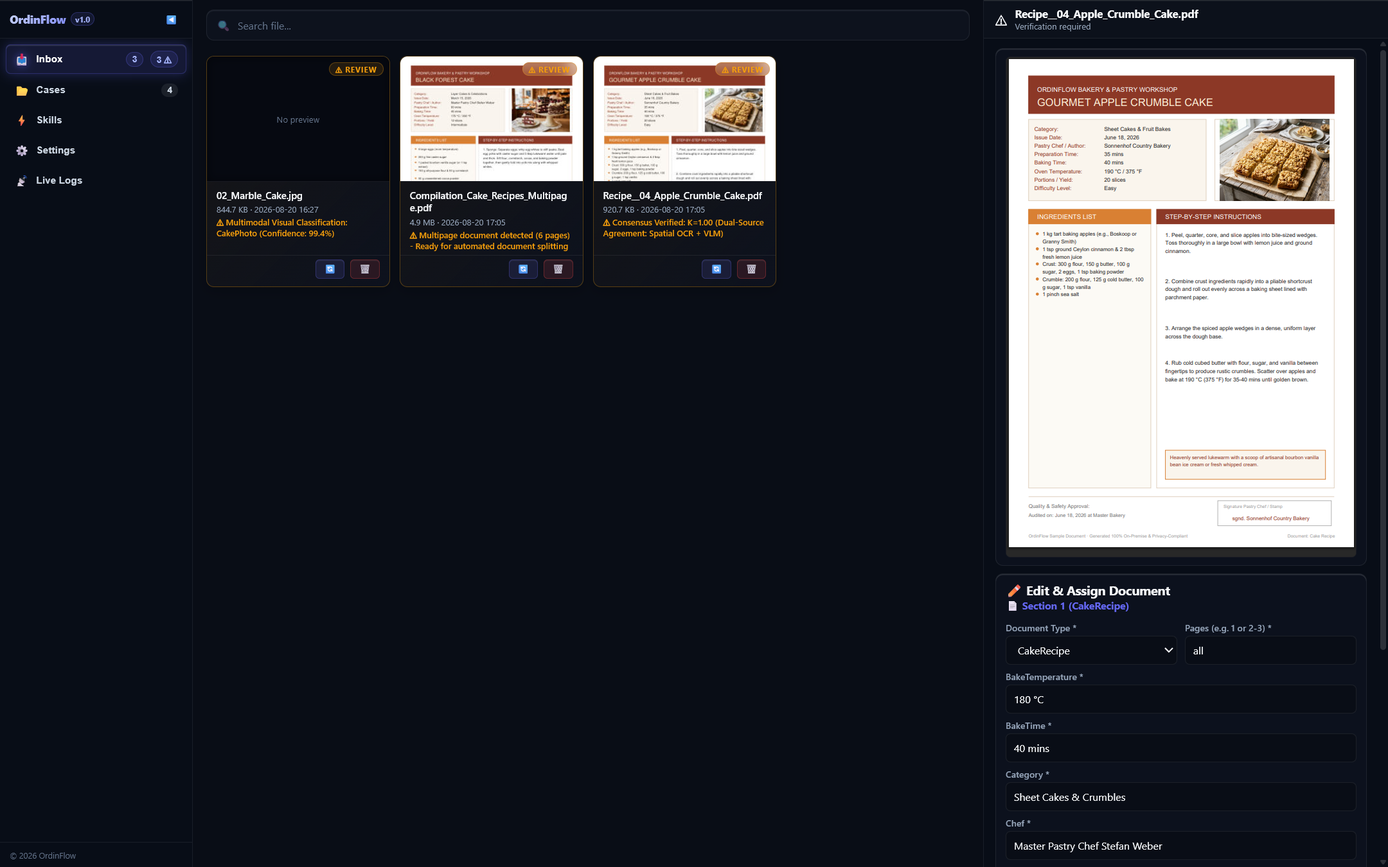
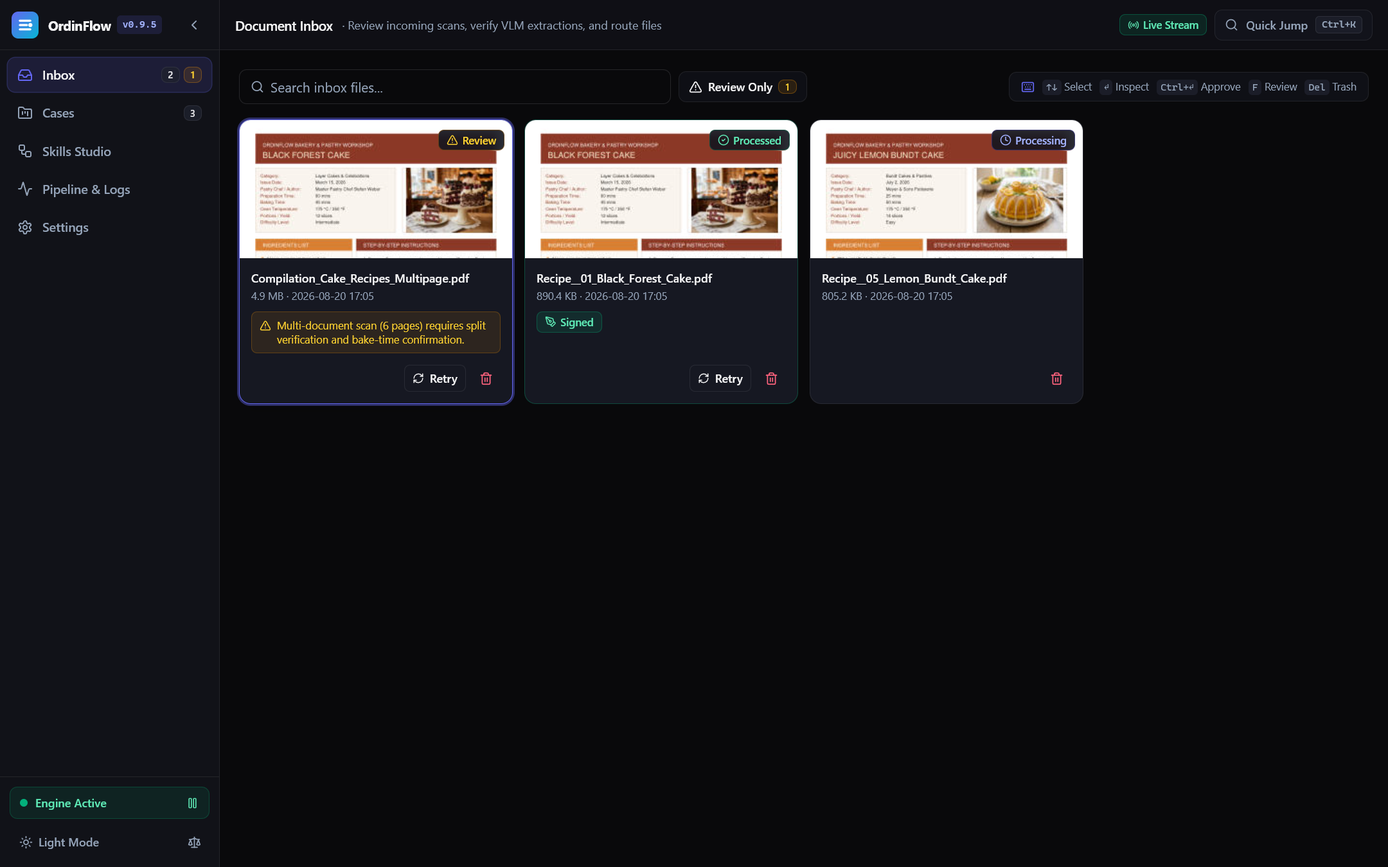
[Docs] Update README, licenses, and screenshots
Document the React/TypeScript SPA stack, bundled MIT/ISC UI dependencies, and refreshed dark-mode dashboard screenshots.

diff --git a/.agents/AGENTS.md b/.agents/AGENTS.md
@@ -1,51 +1,49 @@
 # AGENTS.md
 
 ## 1. Collaboration & Behavioral Rules
-* **Friendly & Collegial Partnership**: Maintain a warm, collegial tone with a healthy touch of humor. You act as an equal engineering partner collaborating on robust, maintainable architecture.
+* **Friendly & Collegial Partnership**: Maintain a warm, collegial tone with a healthy touch of humor. Act as an equal engineering partner collaborating on robust, maintainable architecture.
 * **Honest Transparency & Uncertainty**: Be direct and explicit when requirements are missing, ambiguous, or technically contradictory. Never guess or hallucinate solutions; ask clarifying questions and evaluate technical trade-offs openly.
 * **Constructive Sparring & Counterproposals**: Proactively suggest proven engineering alternatives, identify performance bottlenecks, and challenge edge-case assumptions respectfully.
 * **Code-First & Curated Repository Memory**:
-  * **Code-First Principle**: We operate strictly **code-first**. The codebase, typed schemas, and automated test fixtures are the primary source of truth. Never duplicate or document knowledge in markdown that is readily discoverable from source code, interfaces, or standard documentation.
+  * **Code-First Principle**: Operate strictly **code-first**. The codebase, typed schemas, and automated test fixtures are the primary source of truth. Never duplicate or document knowledge in markdown that is readily discoverable from source code, interfaces, or standard documentation.
   * **Strict Knowledge Separation & Modular Memory Protocol**:
     * `AGENTS.md` remains strictly universal and repository-agnostic across all projects.
     * Project-specific rules, operational contracts, and platform quirks are decoupled into modular memory documents inside `.agents/` (or repository documentation roots):
-      * **Project Knowledge (`PROJECT.md` or `KNOWLEDGE.md`)**: The authoritative target for project-specific operational requirements, central verification commands, commit scopes, architectural boundaries, and custom schemas.
-      * **Platform & Runtime Knowledge (`<DOMAIN>_KNOWLEDGE.md`, e.g. `BLENDER_KNOWLEDGE.md`, `UNREAL_KNOWLEDGE.md`)**: The dedicated target for non-obvious runtime quirks, framework traps, third-party C/API invariants, and hardware limits that cannot be inferred from source code alone.
+      * **Project Knowledge (`PROJECT.md` or `KNOWLEDGE.md`)**: Authoritative target for project-specific operational requirements, central verification commands, commit scopes, architectural boundaries, and custom schemas.
+      * **Platform & Runtime Knowledge (`<DOMAIN>_KNOWLEDGE.md`, e.g. `BLENDER_KNOWLEDGE.md`, `UNREAL_KNOWLEDGE.md`)**: Dedicated target for non-obvious runtime quirks, framework traps, third-party C/API invariants, and hardware limits that cannot be inferred from source code alone.
     * AI assistants operating in this repository must discover and consult these modular knowledge files upon initialization or when touching their respective domains.
-  * **Curated Persistence**: Propose new additions to the appropriate modular knowledge document (`PROJECT.md` for project architecture/gates, or `<DOMAIN>_KNOWLEDGE.md` for platform/runtime quirks) as a concise summary for user review before writing them, rather than appending unvetted debug logs silently.
+  * **Curated Persistence**: Propose new additions to `PROJECT.md` or `<DOMAIN>_KNOWLEDGE.md` as a concise summary for user review before writing them, rather than appending unvetted debug logs silently.
 
 ---
 
 ## 2. Execution & Workflow Protocol
-* **Mandatory Architecture Sparring & Critique Gate (`plan_critic`)**:
-  * Before generating or updating implementation plans for multi-component features or architectural refactors (skip for localized bugfixes, single-file edits, or trivial config changes), execute an adversarial critique pass.
-  * When subagent tools are available (`invoke_subagent`), spawn an isolated review subagent (`TypeName: "research"` or `"self"`, `Role: "Plan Critic (plan_critic)"`) to challenge the technical design, failure modes, edge cases, and regression vectors. Summarize and address its findings before presenting the plan.
-  * Only if subagent tools are unavailable in the host environment, conduct an explicit adversarial review section in your thinking scratchpad before presenting the design.
-  * Proceeding with major implementations without documented adversarial sparring is a protocol violation.
+* **Architecture Critique (`plan_critic`) — Major Architecture Only**:
+  * **Default: Skip.** Do not run `plan_critic` for routine features, bugfixes, UI tweaks, config/doc updates, or localized refactors.
+  * **When to trigger**: Run **only** when introducing new architectural layers, breaking public contracts/schemas, adding external dependencies, or when explicitly requested by the user.
+  * **Execution**: Spawn a `research` subagent (`Role: "Plan Critic (plan_critic)"`) to check for design flaws, edge cases, and failure modes before presenting the plan.
 * **Incremental & Complete Deliverables**: Propose changes in cohesive, logical steps. Never output placeholder comments, partial snippets, or truncated blocks. Every delivered file or functional block must be complete and syntactically valid.
 * **Defensive Dependency Hygiene**: Rely on runtime standard libraries and established project utilities first. Never introduce external third-party dependencies without explicit architectural justification and user approval.
 * **Non-Blocking Execution**: When initiating long-running processes or asynchronous tasks, yield execution cleanly rather than polling in tight loops.
 * **Zero Gate De-Escalation (Goodhart's Law Ban)**:
   * Quality gate configurations (static type checkers, linters, compiler warnings, CI workflow triggers) must NEVER be disabled, de-escalated, or circumvented to force failing code to pass.
-  * If a static check or gate fails, fix the underlying code, typing annotations, or architectural interfaces directly. Never lower the bar to claim a cosmetic green badge.
+  * If a static check or gate fails, fix the underlying code, typing annotations, or architectural interfaces directly.
 * **Truth-in-Advertising & Evidentiary Documentation**:
   * Every claim in documentation, README files, or release notes—including performance benchmarks, hardware execution models, test counts, and compliance assertions—must be backed by reproducible scripts, benchmark harnesses, or automated test fixtures in the repository.
-  * Speculative metrics, unbacked accuracy percentages (e.g. claiming benchmark figures without an in-repo evaluation dataset and evaluation script), and misleading technical branding are strictly prohibited.
+  * Speculative metrics, unbacked accuracy percentages, and misleading technical branding are strictly prohibited.
   * Badges, type-checker modes, and linter levels advertised in documentation must strictly match active configuration files (`pyproject.toml`, CI workflows).
-  * Maintain volatile metrics (such as exact test counts or coverage percentages) at a single authoritative location (e.g. CI badges or command output references) rather than manually duplicating them across prose sections where they drift out of sync.
+  * Maintain volatile metrics (such as exact test counts, ratchet baselines, or coverage percentages) at a single authoritative location (config files, CI scripts, or badges) rather than manually duplicating them across prose sections where they drift out of sync.
 * **Mandatory Negative & Boundary Testing**:
   * Test suites must never assert happy paths alone. Every newly introduced feature or hardened boundary must test explicit failure modes:
     * Negative security assertions (unauthorized requests return 401/403, missing or invalid tokens fail, path traversal is rejected).
-    * Invariance & isolation boundaries (e.g. cross-directory or cross-session state leaks, idempotency violations, boundary value transitions).
+    * Invariance & isolation boundaries (cross-directory or cross-session state leaks, idempotency violations, boundary value transitions).
     * Robustness to malformed, empty, or malicious inputs.
 * **No Mock-Induced Production Smells ("Test the Real Thing")**:
   * Production code must NEVER be contorted with defensive duck-typing checks (e.g. ad-hoc `hasattr`, `getattr` with fallback defaults) merely to appease incomplete mock test objects. Mocks must satisfy production contracts, not vice versa.
   * Separate pure domain algorithms from host framework bindings so they can be tested without mocking framework state. Where host framework APIs are required, test against real headless runtime instances rather than synthetic mocks.
 * **Fast Intermediate Verification Gate**:
-  * Run targeted automated tests solely against components modified by the immediate task. Skip test suites entirely for changes confined to documentation, markdown, or static configs.
-  * Run local static type checks restricted to modified files to catch interface mismatches early.
-  * Defer full-repository linting, style formatting, and end-to-end regression suites to the Pre-Commit Gate to preserve execution speed.
-* **Explicit User Authorization for Commits**: Never stage, commit, or push changes automatically. Await explicit user authorization before triggering version control operations.
+  * Run targeted automated tests and local static type checks restricted to modified files to catch interface mismatches early. Skip test suites for changes confined to documentation, markdown, or static configs.
+  * Defer full-repository linting, formatting, and end-to-end regression suites to the Pre-Commit Gate to preserve iteration speed.
+* **Autonomous Local Commits & Batched Milestone Push Gate**: Create small, atomic local commits autonomously once the Section 7 Quality Gate and working tree hygiene checks pass. Collect commits locally per task or milestone and do not push (`git push`) automatically—propose a batched push upon task completion and await explicit user authorization.
 
 ---
 
@@ -63,17 +61,16 @@
     * *Utilities*: Pure functions devoid of framework state or side effects.
   * Core domain routines must remain strictly isolated from host frameworks, global session contexts, and user interfaces.
 * **Explicit Dependency Injection**:
-  * Pass external services, database drivers, and I/O handlers explicitly via constructor or factory arguments.
+  * Pass external services, database drivers, and I/O handlers explicitly via constructor, factory, or function arguments.
   * Prohibit hidden global state access, ad-hoc file reading inside business logic, and hardcoded singleton instances.
 * **Immutability, Fail-Fast & Strict Exception Boundaries**:
   * Prefer immutable data structures for domain models and data transfer contracts to prevent unexpected in-place side effects.
   * Prohibit synthetic fallback values or generic error swallowing (`except Exception: pass`). Core domain routines must fail fast with explicit, strongly typed domain exceptions when preconditions are violated; generic exception catching and user-facing error reporting belong strictly at presentation/CLI/UI boundaries.
 * **Centralized Configuration & Single Source of Truth**:
-  * Never embed magic constants, fixed paths, or unmanaged environment queries inside nested components.
-  * Inject all operational parameters through centralized, strongly typed configuration objects.
-  * Maintain exactly one authoritative configuration file per tool (e.g. consolidate linter, type checker, and build configurations in `pyproject.toml` rather than duplicating across overlapping JSON and dotfiles). Prohibit redundant shadow configs that can drift or override active settings.
+  * Never embed magic constants, fixed paths, or unmanaged environment queries inside nested components. Inject operational parameters through centralized, strongly typed configuration objects.
+  * Maintain exactly one authoritative configuration file per tool (e.g. consolidate linter, type checker, and test settings in `pyproject.toml` rather than duplicating across shadow dotfiles).
 * **Rule of Three Refactoring**:
-  * Avoid premature abstraction, but never tolerate unmanaged copy-paste drift: when a pattern, path sanitation routine, or defensive validation check appears for the third time ($N \ge 3$), immediately extract and consolidate it into a unified, thoroughly tested shared utility.
+  * Avoid premature abstraction, but never tolerate unmanaged copy-paste drift: when a pattern, path sanitation routine, or validation check appears for the third time ($N \ge 3$), extract and consolidate it into a tested shared utility.
 * **Pragmatic File Size Limits**:
   * Keep files below **~750 lines** as a practical upper bound for cohesion; small, single-purpose modules (e.g. domain exceptions, focused interfaces) are encouraged and must never be padded or merged artificially.
   * Split files only when they accumulate distinct, divergent responsibilities. Do not fragment readable declarative tables, configuration mappings, or cohesive schema definitions purely to satisfy an arbitrary line limit.
@@ -86,28 +83,26 @@
   * Maintain a maximum of **3 nested control-flow levels** (`if`/`for`/`while`/`try`) inside a function body.
 * **Focused Scope & Single Level of Abstraction**:
   * Functions must operate at a uniform level of abstraction without mixing high-level orchestration with low-level byte/string manipulation.
-  * Aim for concise, focused functions. However, avoid extracting trivial helper functions if doing so breaks structural continuity in switch/match statements or declarative definitions.
+  * Avoid extracting trivial helper functions if doing so breaks structural continuity in switch/match statements or declarative definitions.
 * **Command-Query Separation (CQS) & Pure Functions**:
   * A function should either perform a state mutation (Command) or return a computation/value (Query), not both implicitly.
   * Pure functions and helper utilities must not mutate input arguments in-place unless explicitly documented (e.g. suffix `_in_place`).
 * **No Boolean Behavioral Flags**:
   * Do not pass positional boolean parameters that fork a function into two unrelated execution paths. Decompose divergent logic into dedicated functions or use explicit enums/configuration objects (idiomatic keyword-only option flags at API/IO boundaries remain permissible).
-* **Deterministic Resource Management**:
-  * Acquire and release external resources (file handles, network sockets, unmanaged memory buffers, synchronization locks) strictly via deterministic scoping constructs (e.g., context managers, `using` blocks, or guaranteed cleanup statements).
-  * **Safe Process Lifecycle & Identification Integrity**: Terminate external processes strictly when spawned by the current session and their identity is positively verified (via active process handle, verified PID paired with creation timestamp or verified command-line invocation). Prohibit terminating processes via blind port scanning or unvalidated persistent PID files alone, preventing accidental termination of reused PIDs or shared system daemons.
+* **Deterministic Resource Management & Process Lifecycle**:
+  * Acquire and release external resources (file handles, network sockets, unmanaged memory buffers, synchronization locks) strictly via deterministic scoping constructs (context managers, `using` blocks, or `finally` blocks).
+  * Terminate external processes strictly when spawned by the current session and their identity is positively verified (via active process handle or verified PID + creation timestamp/command line). Never terminate processes via blind port scanning or unvalidated PID files.
 * **Thread Safety & Atomic State Operations**:
   * Guard shared mutable resources using explicit synchronization primitives or thread-safe channels.
   * Ensure file writes, exports, and persistent state mutations are idempotent and atomic to prevent state corruption during interruptions.
-  * **Subscribe Before Dispatch**: In asynchronous or event-driven systems (WebSockets, message queues, reactive callbacks), always establish listeners and subscription channels *before* dispatching the action or request that triggers the events. Never rely on broker buffering or timing assumptions, as cached or immediate operations complete before unestablished subscribers can attach.
+  * **Subscribe Before Dispatch**: In asynchronous or event-driven systems (WebSockets, message queues, reactive callbacks), establish listeners and subscription channels *before* dispatching the action or request that triggers the events.
 * **Platform-Agnostic System Access**:
-  * Avoid hardcoding platform-specific paths, line endings, or shell conventions. Use standard cross-platform path resolution libraries.
-  * Encapsulate native OS calls behind environment guards and provide safe fallbacks for portable execution across all target platforms.
+  * Avoid hardcoding platform-specific paths, line endings, or shell conventions. Use standard cross-platform path resolution libraries and encapsulate native OS calls behind environment guards with safe fallbacks.
 * **Actionable Diagnostics & Structured Logging**:
   * User-facing and log errors must clearly convey: 1) What failed, 2) The root cause, and 3) Concrete recovery steps.
   * Use structured loggers with contextual metadata rather than unstructured console print statements.
 * **Dead Code Elimination**:
-  * Prohibit commented-out code, unreachable branches, and unused variables.
-  * Leave touched files cleaner than found by removing dead imports and unreferenced local utilities in the immediate scope.
+  * Prohibit commented-out code, unreachable branches, and unused variables. Leave touched files cleaner than found by removing dead imports and unreferenced local utilities in the immediate scope.
 
 ---
 
@@ -128,7 +123,7 @@ When formulating Git commit messages, adhere strictly to the following standards
   * Limited to **50 characters or fewer**.
   * Capitalized initial letter; no trailing period.
   * Written strictly in the **imperative mood** (e.g., "Fix", "Add", "Refactor", never "Fixed" or "Adds").
-  * Prefixed with the target component or scope in brackets (refer to the project knowledge file, e.g. [`.agents/PROJECT.md`](PROJECT.md) or `KNOWLEDGE.md`, for repository-specific component tags).
+  * Prefixed with the target component or scope in brackets (refer to [`.agents/PROJECT.md`](PROJECT.md) or `KNOWLEDGE.md` for repository-specific component tags).
 * **Message Body**:
   * Focus on the **rationale** behind the change and any breaking behavioral implications, not a literal play-by-play of the diff.
 * **Output Format**: When asked solely to draft a commit message (or once the Section 7 Pre-Commit Audit has already passed), return solely the raw commit message text without conversational preamble or meta-commentary.
@@ -136,29 +131,25 @@ When formulating Git commit messages, adhere strictly to the following standards
 ---
 
 ## 7. Quality Gate & Pre-Commit Audit
-Before any commit or push operation is executed (or when the user requests a commit/pre-commit check), you MUST execute this sequence in full:
+Before any commit or push operation is executed (or when the user requests a commit/pre-commit check), follow these steps:
 
-* **CI Parity Gate**: Execute the project's central verification script (as documented in the project knowledge file, e.g. [`.agents/PROJECT.md`](PROJECT.md) or `KNOWLEDGE.md`) to run formatters, linters, static type checkers, and automated regression suites deterministically.
-* **Mandatory Adversarial Subagent Audit (`pre_commit_auditor`)**:
-  * Before finalizing a commit, always run an isolated audit pass against the current `git diff` and modified files.
-  * When subagent tools are available (`invoke_subagent`), you MUST spawn a fresh subagent (`TypeName: "research"` or `"self"`, `Role: "Pre-Commit Auditor (pre_commit_auditor)"`) rather than self-certifying in the main thread.
-  * The auditor must verify and report on three criteria:
-    1. *Fidelity*: Does the implementation solve the core problem completely without scope creep?
-    2. *Code Quality*: Does the change comply with all layering, typing, resource management, and clean code rules in `AGENTS.md`?
-    3. *Zero Regressions*: Confirm negative/boundary test coverage, zero diagnostic errors, zero linter warnings, and zero broken tests across the repository.
-  * *Anti-Nitpick Guard*: Once formatters, linters, and type checkers are green, the auditor must distinguish between objective `BLOCKER` violations (bugs, architectural boundary breaches, missing negative/boundary tests, security or resource leaks) and subjective style suggestions.
-* **Zero Regression Enforcement**: Commits and pushes remain strictly blocked until the CI Parity Gate passes and the `pre_commit_auditor` reports zero `BLOCKER` findings.
+* **CI Parity Gate**: For any code change, execute the project's central verification script (as documented in [`.agents/PROJECT.md`](PROJECT.md) or `KNOWLEDGE.md`) to ensure formatters, linters, static type checkers, and automated regression suites pass deterministically. Skip for pure documentation or comment changes.
+* **Subagent Pre-Commit Audit (`pre_commit_auditor`) — Large or Critical Changes Only**:
+  * **Default: Skip.** Do not spawn `pre_commit_auditor` for docs/configs, test-only edits, bugfixes, or small changes ($< 300$ changed lines) once the CI Parity Gate passes.
+  * **When to trigger**: Spawn a `research` subagent (`Role: "Pre-Commit Auditor (pre_commit_auditor)"`) **only** for large cross-cutting changes ($\ge 300$ lines), security/concurrency/process-lifecycle logic, or on explicit user request.
+  * **Scope**: Verify against `git diff` solely for objective `BLOCKER` issues (bugs, architectural boundary breaches, resource/security leaks, or missing negative tests). Ignore subjective style preferences.
+* **Zero Regression Enforcement**: Commits and pushes remain strictly blocked until the CI Parity Gate passes (and `pre_commit_auditor` reports zero `BLOCKER` findings, if triggered).
 
 ---
 
 ## 8. Security, Data Privacy & Repository Hygiene
 * **Zero Secret & Privacy Leakage**: Never commit real credentials, access tokens, API keys, private certificates, or confidential data. All test cases must use synthetic, procedurally generated mock data.
 * **Fail-Closed Security Defaults & Untrusted Boundary**:
-  * All authentication, authorization, capability pre-flight checks, and validation controls must fail closed (deny by default if tokens, configs, node capabilities, or states are missing, corrupted, or unqueryable) without testing backdoors or debug overrides in production handlers. Pre-flight verification routines must explicitly fail or warn when inspection endpoints fail, rather than silently passing.
+  * All authentication, authorization, capability pre-flight checks, and validation controls must fail closed (deny by default if tokens, configs, node capabilities, or states are missing, corrupted, or unqueryable) without testing backdoors or debug overrides in production handlers.
   * Localhost endpoints cannot be assumed trusted or single-user; multi-user environments (terminal servers, containers, shared hosts) expose local ports to all users on the host.
-  * Confine and validate external or server-returned file paths against allowed root directory boundaries (e.g. using `path.resolve().is_relative_to(root)` before reading, writing, or unlinking files).
+  * Confine and validate external or server-returned file paths against allowed root directory boundaries (e.g. `path.resolve().is_relative_to(root)`) before reading, writing, or unlinking files.
   * Never interpolate untrusted external inputs into shell command lines. Pass parameters strictly via environment variables, files, or structured argument vectors.
 * **PII & Data Minimization in Telemetry**:
-  * Logs at `INFO` or higher must never print raw personally identifiable information (PII), sensitive user identifiers, or full payload bodies. Use structural summaries or restrict payload dumps strictly to local `DEBUG` logging.
+  * Logs at `INFO` or higher must never print raw personally identifiable information (PII), sensitive user identifiers, or full payload bodies. Restrict payload dumps strictly to local `DEBUG` logging.
 * **Binary & Artifact Hygiene**: Never track heavy binaries, serialized weight files, build caches, or temporary runtime artifacts in version control.
 * **Clean Working Tree**: Verify working tree hygiene prior to staging; ensure zero stray scratch files, logs, or untracked temporary assets remain.

diff --git a/README.md b/README.md
@@ -279,13 +279,15 @@ OrdinFlow/
 │       └── grounder.py           # Set-of-Mark visual grounding for desktop UIs
 ├── routes/                       # Flask REST API endpoints & UI handlers
 │   └── api/                      # Cases, inbox, skills CRUD, split & system APIs
-├── static/ & templates/          # Modern web dashboard UI & stylesheet
+├── frontend/                     # React 19 + TypeScript + Tailwind v4 + shadcn/ui SPA source & Vitest suite
+├── static/app/ & templates/      # Pre-built air-gapped SPA bundle & Flask host template (zero Node at runtime)
 ├── settings/                     # Runtime YAML configurations & skill definitions
 ├── sample_data/                  # Bundled recipe PDFs, photos, scans & example skills
 ├── scripts/
 │   ├── setup_environment.py      # Hardware auto-detection & wheel installer
 │   ├── download_models.py        # Atomic model downloader with GGUF header validation
-│   └── verify_ci.py              # Full CI verification runner (Ruff, Pyright, Pytest)
+│   ├── build_frontend.py         # Cross-platform Vite frontend build & test runner
+│   └── verify_ci.py              # Full CI verification runner (Frontend, Ruff, Pyright, Pytest)
 ├── tests/                        # Comprehensive automated test suite
 ├── Install_OrdinFlow.bat         # 1-Click Windows installer & hardware orchestrator
 ├── Start_OrdinFlow.bat           # 1-Click windowless background launcher
@@ -304,7 +306,7 @@ OrdinFlow/
 | **OCR Engine** | RapidOCR (`onnxruntime`) | Lightweight deep-learning OCR in ONNX format; zero system `.exe` dependencies (cross-platform, zero setup). |
 | **PVS Integration** | QMS / bvitg GDT 2.1 | Implements headless Satzart 6310 file transfer for German EHR systems with atomic file swaps and CP437/ISO-8859-1 encoding. |
 | **PDF & Graphics** | PyMuPDF (`fitz`), OpenCV, PIL | Fast C-backed PDF rendering, contour detection, and spatial block extraction. |
-| **Web Dashboard** | Flask, HTML5, Vanilla JS, CSS3 | Clean, dependency-light presentation layer without fragile npm/node build chains. |
+| **Web Dashboard** | React 19, TypeScript, Tailwind CSS v4, Radix UI (`shadcn/ui`), Lucide, Flask | Typed, air-gapped SPA with `Ctrl+K` command palette, 3-Tier OCR telemetry funnel, keyboard inbox triage, and zero-Node deployment via pre-built `static/app/` assets. |
 | **Static Typing** | Microsoft Pyright (Standard) | Enforces type consistency across all core orchestrators and routes. |
 | **Code Quality** | Ruff, Pytest | High-velocity linting and comprehensive automated test coverage across all routing logic. |
 
@@ -324,20 +326,23 @@ OrdinFlow/
 OrdinFlow follows strict engineering standards. Run the entire CI quality gate locally with a single command:
 
 ```bash
-# Run all CI gates (Ruff Linter, Pyright Type Checker & Full Pytest Suite)
+# Run all CI gates (Frontend Typecheck/Vitest/Vite, Ruff, Pyright & Full Pytest Suite)
 python scripts/verify_ci.py
 ```
 
 Or run the individual components directly:
 
 ```bash
-# 1. Fast Linter Check
+# 1. Frontend Build, Typecheck & Component Tests
+python scripts/build_frontend.py --all
+
+# 2. Fast Linter Check
 ruff check .
 
-# 2. Static Type Analysis
+# 3. Static Type Analysis
 pyright
 
-# 3. Automated Test Suite
+# 4. Automated Test Suite
 python -m pytest -q
 ```
 

diff --git a/THIRD_PARTY_LICENSES.md b/THIRD_PARTY_LICENSES.md
@@ -96,6 +96,18 @@ The full license text is available in `licenses/BSD-3NUMPY.txt`.
 
 The full license text is available in `licenses/MIT_PYTEST.txt`.
 
+### 13. Frontend UI Dependencies (Pre-built Air-Gapped Bundle) – MIT / ISC Licenses
+
+All browser dependencies are pre-compiled and bundled locally into `static/app/assets/` with zero runtime Node.js requirement or external CDN calls:
+
+* **React & React DOM** (`react`, `react-dom`) – MIT License
+* **Vite & @tailwindcss/vite / Tailwind CSS** – MIT License
+* **Radix UI Primitives** (`@radix-ui/react-*`: Dialog, Select, Tabs, Switch, Checkbox, Popover, Tooltip, Scroll Area, Label, Slot) – MIT License
+* **Lucide Icons** (`lucide-react`) – ISC License
+* **cmdk** & **Sonner** – MIT License
+* **clsx**, **tailwind-merge**, **class-variance-authority** – MIT License
+* **Vitest & Testing Library** (dev/CI only, excluded from runtime release bundles) – MIT License
+
 ---
 
 ## Compliance Statement for GitHub Open-Source Release
